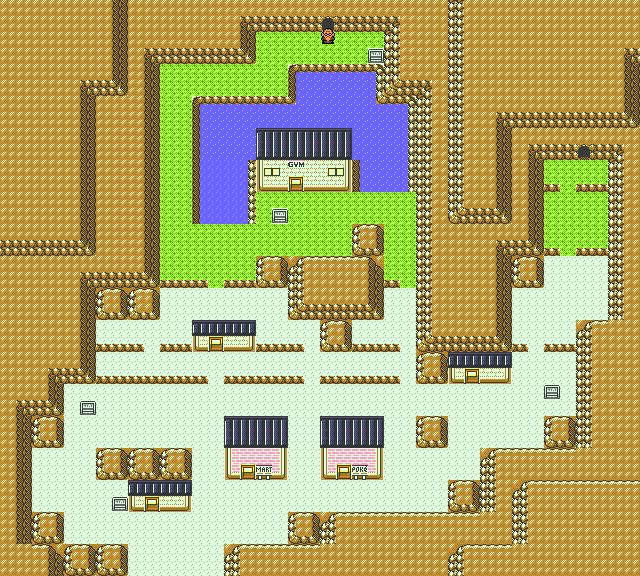
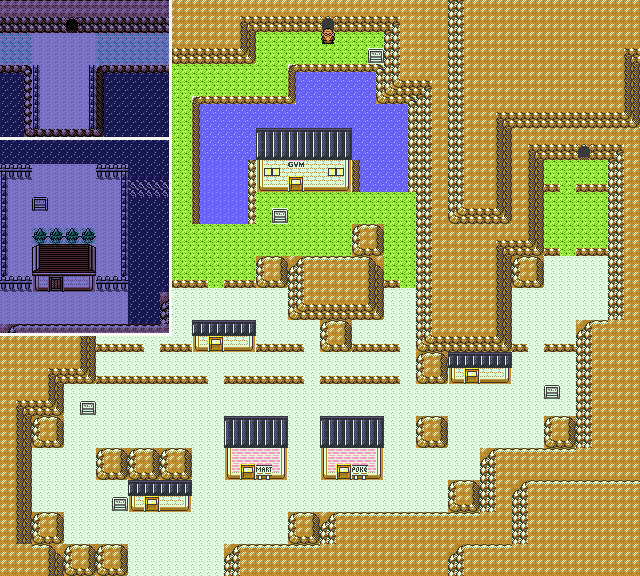
Added more corridors to crystal

Changed region(s): [[0.0, 0.0, 0.2812, 0.5938]]

diff --git a/games/crystal.js b/games/crystal.js
@@ -185,7 +185,8 @@ var crystal = {
 			mart:        {x: 247, y: 430 },
 			center:      {x: 351, y: 500 },
 			rightcenter: {x: 472, y: 354 },
-
+			den_door:    {x: 70,  y: 57,  corridor: "den_house", name: "Dragon's Den" },
+			den_house:   {x: 70,  y: 250, corridor: "den_door",  name: "Dragon's Den" },
         },
         indigo_e4: {
 			center_left:     {x: 40,  y: 490,                        name: "Indigo Plateau"    },
@@ -437,9 +438,11 @@ var crystal = {
 			b1f:     {x: 389, y: 487, name: "Goldenrod Store" },
         },
         underground: {
-			top:      {x: 31,  y: 72  },
-			basement: {x: 264, y: 130 },
-			bot:      {x: 31,  y: 188 },
+			top:               {x: 31,  y: 72                                                   },
+			basement:          {x: 264, y: 130                                                  },
+			bot:               {x: 31,  y: 188                                                  },
+			basement_rival:    {x: 121, y: 325, corridor: "basement_director", name: "Basement" },
+			basement_director: {x: 251, y: 325, corridor: "basement_rival",    name: "Basement" },
         },
         tintower: {
 			tinL_left:       {x: 335, y: 192, name: "Tin Tower (L)"         },
